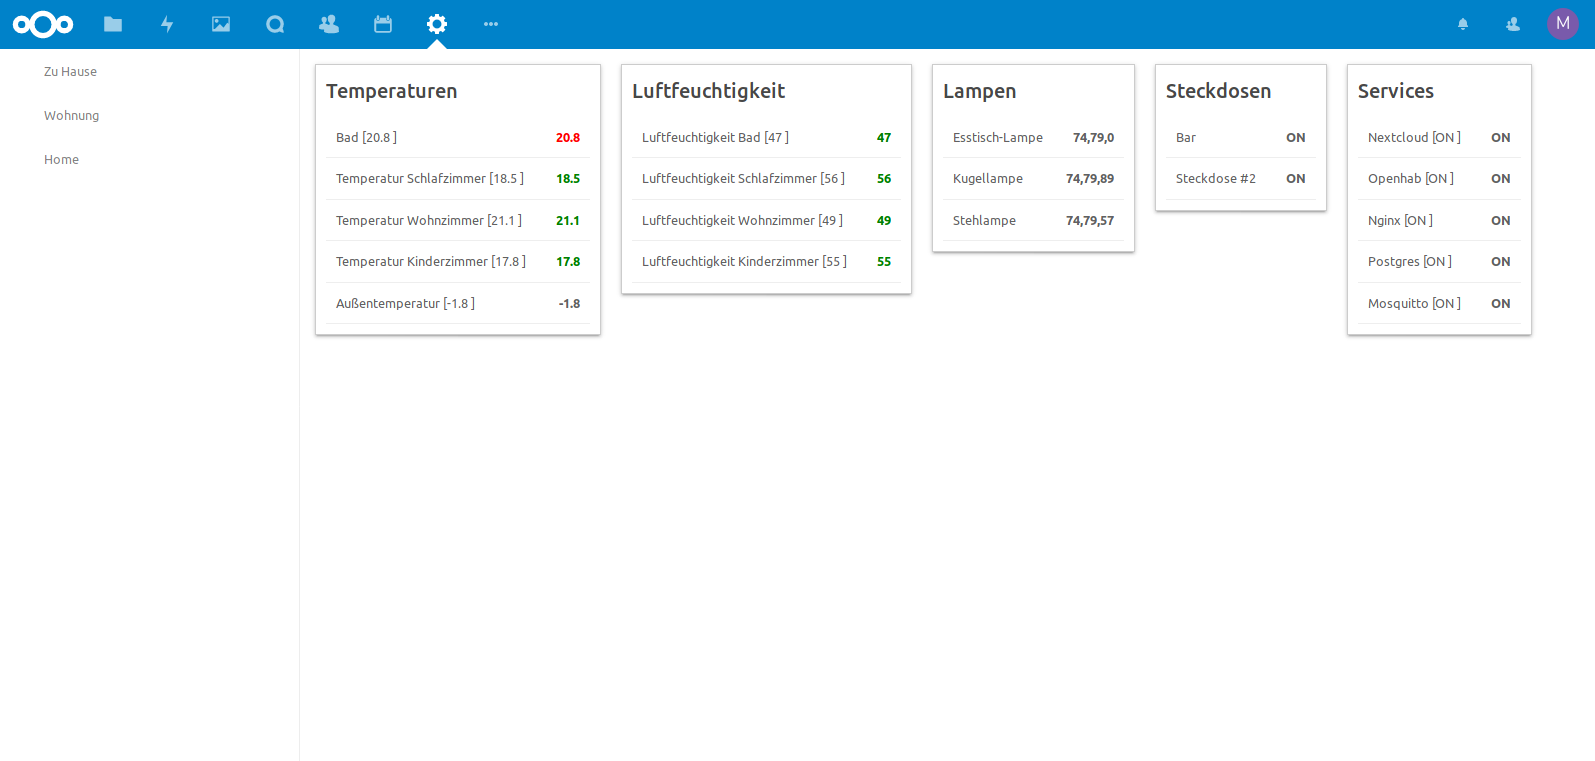
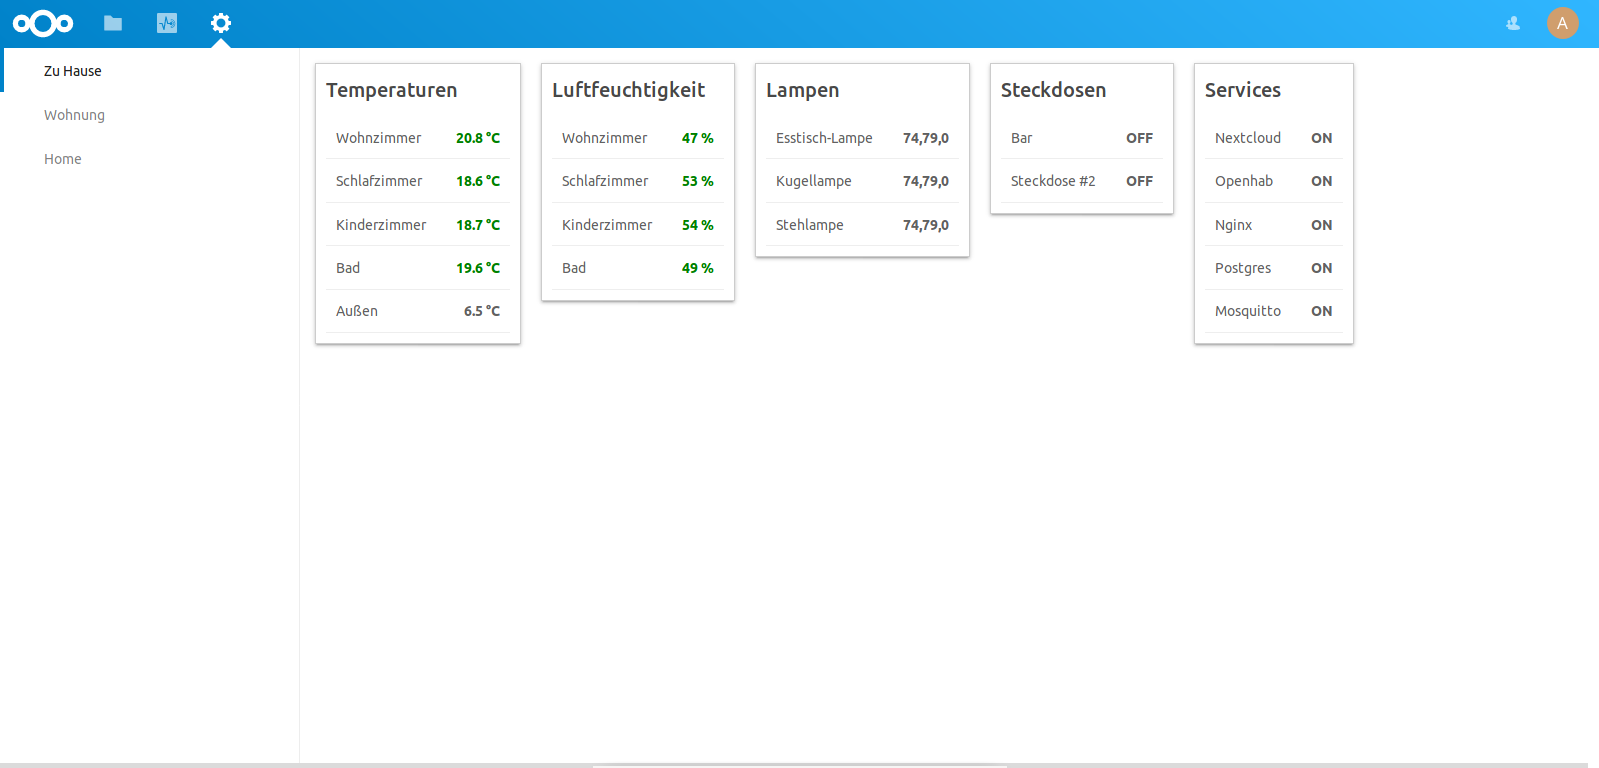
improve label/value extraction

diff --git a/src/SwitchWidget.vue b/src/SwitchWidget.vue
@@ -1,11 +1,12 @@
 <template>
 	<div v-if="config.item" class="entry" :title="config.item.name">
-		<span>{{ config.label }}</span>
-		<span class="value" :style="{ color: config.valuecolor }">{{ config.item.state }}</span>
+		<span>{{ label }}</span>
+		<span class="value" :style="{ color: config.valuecolor }">{{ value }}</span>
 	</div>
 </template>
 
 <script>
+import ItemService from './ItemService'
 
 export default {
 	name: 'SwitchWidget',
@@ -13,6 +14,14 @@ export default {
 		config: {
 			type: Object,
 			required: true,
+		},
+	},
+	computed: {
+		label: function() {
+			return ItemService.getLabel(this.config.label)
+		},
+		value: function() {
+			return ItemService.getValue(this.config.label, this.config.item.state)
 		},
 	},
 }

diff --git a/src/TextWidget.vue b/src/TextWidget.vue
@@ -1,11 +1,12 @@
 <template>
 	<div v-if="config.item" class="entry" :title="config.item.name">
-		<span>{{ config.label }}</span>
-		<span class="value" :style="{ color: config.valuecolor }">{{ config.item.state }}</span>
+		<span>{{ label }}</span>
+		<span class="value" :style="{ color: config.valuecolor }">{{ value }}</span>
 	</div>
 </template>
 
 <script>
+import ItemService from './ItemService'
 
 export default {
 	name: 'TextWidget',
@@ -13,6 +14,14 @@ export default {
 		config: {
 			type: Object,
 			required: true,
+		},
+	},
+	computed: {
+		label: function() {
+			return ItemService.getLabel(this.config.label)
+		},
+		value: function() {
+			return ItemService.getValue(this.config.label, this.config.item.state)
 		},
 	},
 }

diff --git a/src/ItemService.js b/src/ItemService.js
@@ -1,0 +1,23 @@
+export default class {
+
+	static getValue(item, defaultValue = '') {
+		const index = item.indexOf('[')
+
+		if (index !== -1) {
+			return item.substring(index + 1, item.length - 1)
+		} else {
+			return defaultValue
+		}
+	}
+
+	static getLabel(item) {
+		const index = item.indexOf('[')
+
+		if (index !== -1) {
+			return item.substring(0, index)
+		} else {
+			return item
+		}
+	}
+
+}
